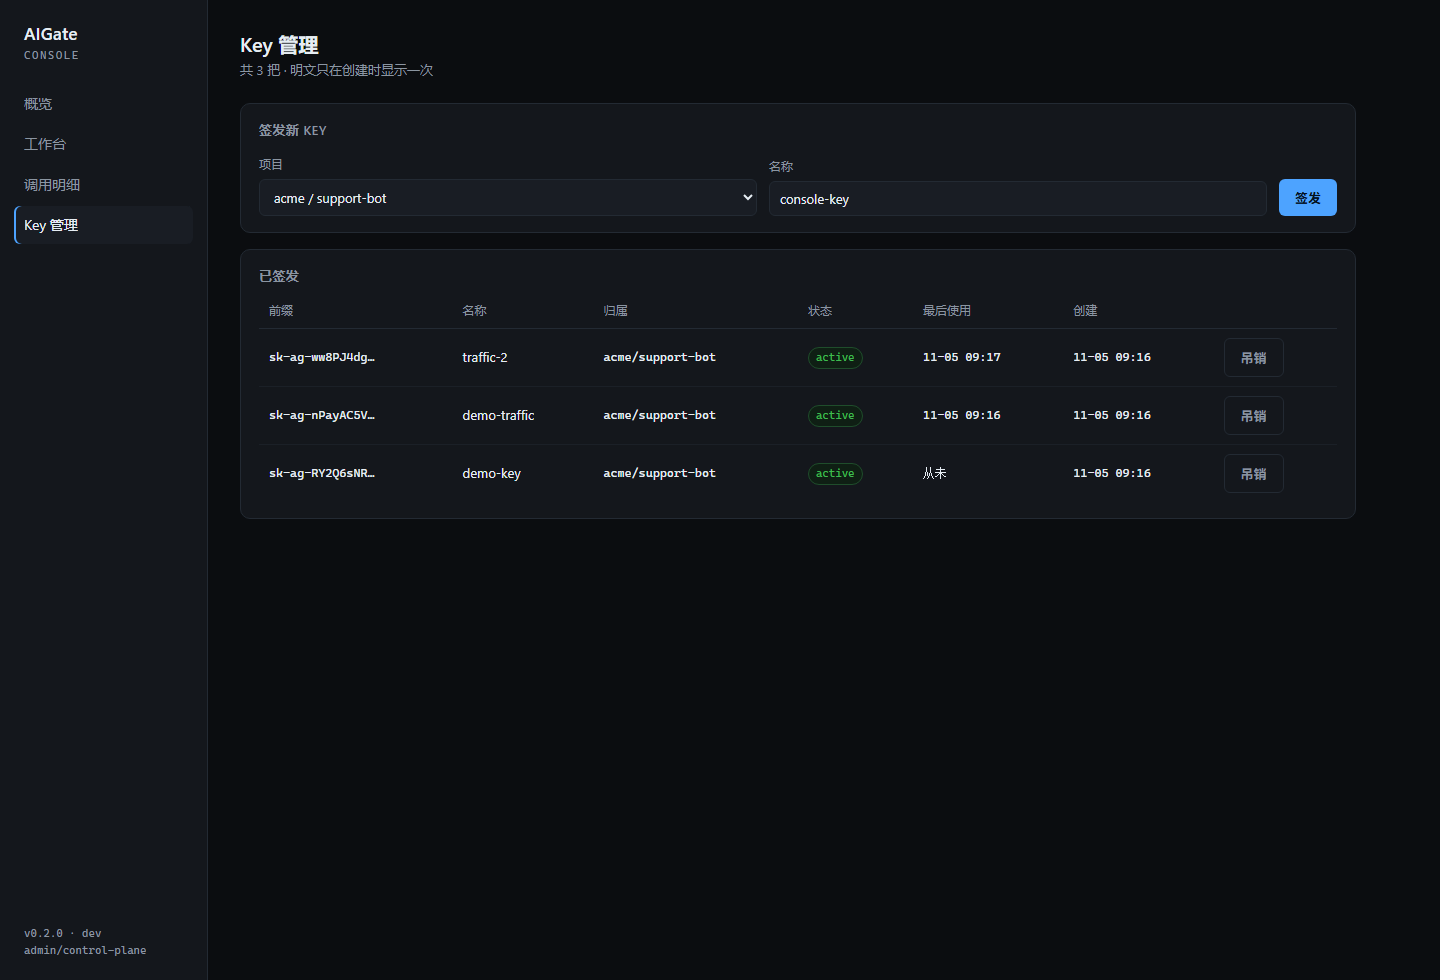
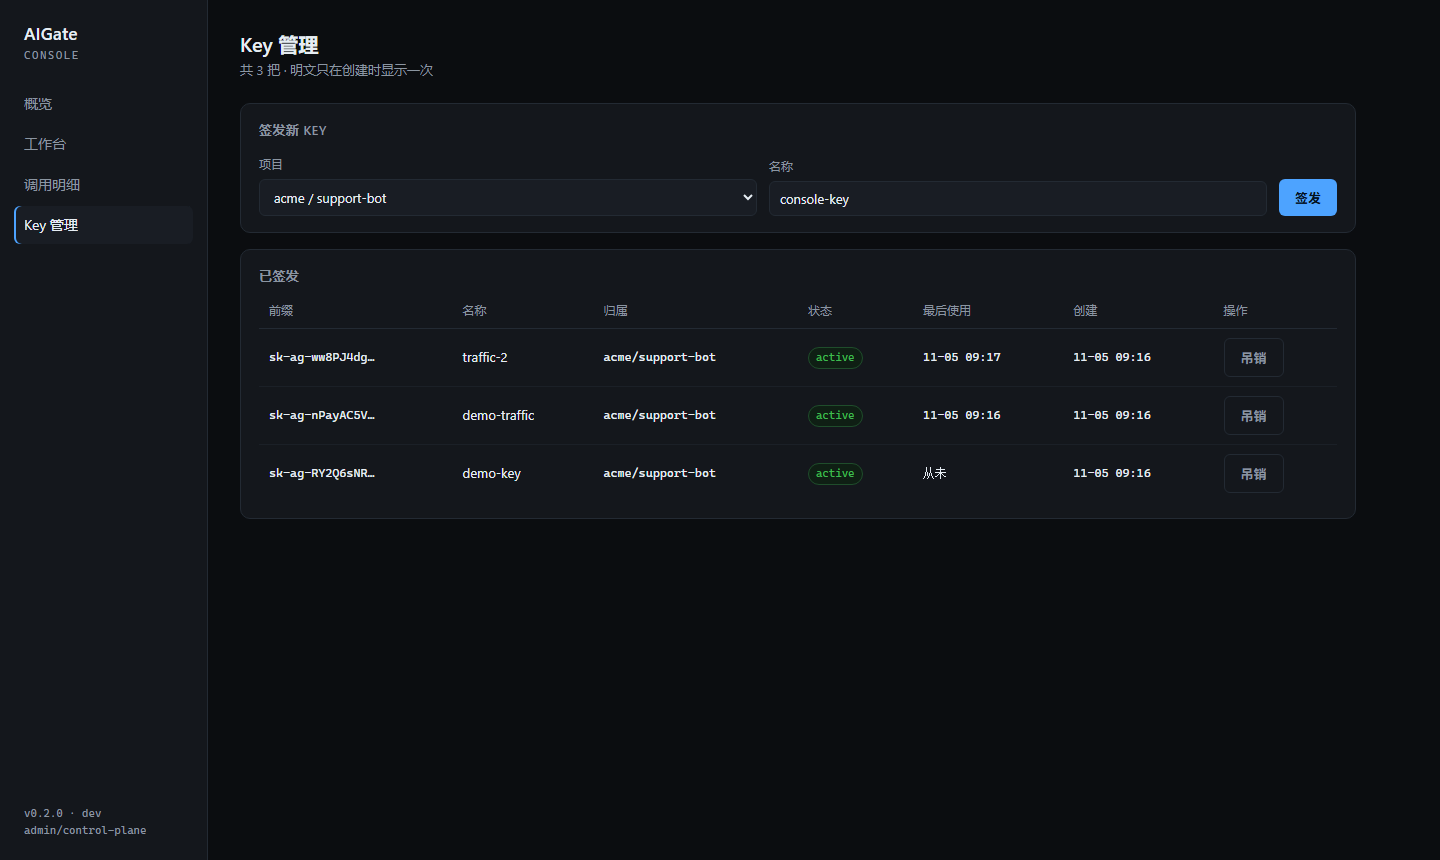
docs: console tradeoff ADR; fix empty action column header

diff --git a/console/app/keys/page.tsx b/console/app/keys/page.tsx
@@ -124,7 +124,7 @@ export default function KeysPage() {
                 <th>状态</th>
                 <th>最后使用</th>
                 <th>创建</th>
-                <th />
+                <th>操作</th>
               </tr>
             </thead>
             <tbody>

diff --git a/docs/adr/0006-console-tradeoffs.md b/docs/adr/0006-console-tradeoffs.md
@@ -1,0 +1,55 @@
+# ADR-0006 控制台：不引图表库，admin token 放在浏览器
+
+- 状态：已采纳（开发 / 演示期方案）
+- 日期：2026-11
+
+## 背景
+
+控制台的目标是让「成本 / 缓存 / 降级 / 耗时」这四个抽象概念变成一屏能看的东西。
+作品集里它承担的是**产品判断力**的证据，不是前端工程能力的炫技。
+
+## 决策
+
+### 1. 不引入图表库
+
+7 根柱子的柱状图用 `div` + CSS 高度实现，没有 Recharts / ECharts / Chart.js。
+
+- 省下 100KB+ 依赖和一个 SSR 兼容问题（图表库大多要 `dynamic(ssr:false)`）。
+- 代价：没有坐标轴、tooltip、缩放。当前信息量下不值得为它们付依赖成本。
+- 何时该换：一旦需要多序列对比、时间范围缩放、或者 >30 个数据点，手写 SVG 的边际成本
+  就超过引库了。这个门槛写在代码注释里，避免下一个人重新纠结。
+
+### 2. admin token 直接进浏览器（`NEXT_PUBLIC_AIGATE_ADMIN_TOKEN`）
+
+- 现状：MVP 没有登录体系，控制台和网关同机部署。
+- 风险：token 会进前端 bundle，任何能打开页面的人都拿到管理权限。
+- 为什么不现在做：真正的后台登录 = SSO + 服务端会话 + CSRF + 分租户授权，至少两周，
+  而它不产生任何「网关能力」上的新证据。
+- **所以它被写进 README 的「已知限制」，而不是藏在代码里。** 面试被问到就答：
+  「我知道这是错的，我把它当已知缺陷列出来了，生产化清单第一条就是它。」
+
+### 3. 聚合在 Python 里算，不在 SQL 里算
+
+`overview` 把窗口内的 usage_records 读出来在内存聚合。
+
+- 万级行：微秒级，且不依赖 SQLite/PostgreSQL 的日期函数差异（`strftime` vs `to_char`）。
+- 代价：百万级会慢。届时正确的做法是**物化日表**（每天一行，跑批更新），而不是把
+  `GROUP BY` 硬塞进请求路径——聚合口径会变，物化表才是能长期演进的地方。
+
+### 4. 截图用合成数据，并在文档里说清楚
+
+`scripts/seed_demo.py` 生成 7 天的模拟流量（含周末低谷、4% 错误率、30% 缓存命中）。
+
+- 目的：让图表有形状，不至于空着。
+- 风险：看起来像真实业务量。
+- 处置：README 与脚本 docstring 都明确写「synthetic / 合成数据」，简历里也不拿这些数字
+  当业务成果。**演示数据的价值是证明系统能算，不是证明系统跑了很多量。**
+
+## 后果
+
+生产化清单（按优先级）：
+
+1. 控制台改服务端会话 + SSO，token 不再下发浏览器
+2. 聚合落物化日表，支持按租户切片
+3. 审计日志：谁在控制台上签发/吊销了 Key
+4. 图表按需引库（超过 30 个数据点或需要多序列时）
